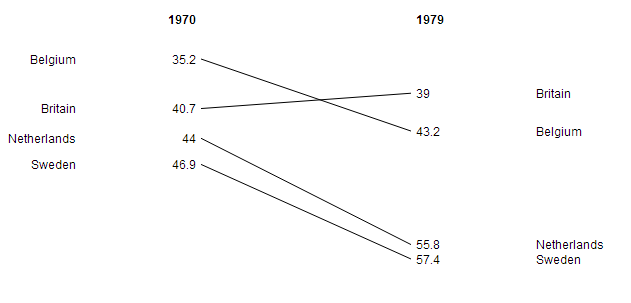
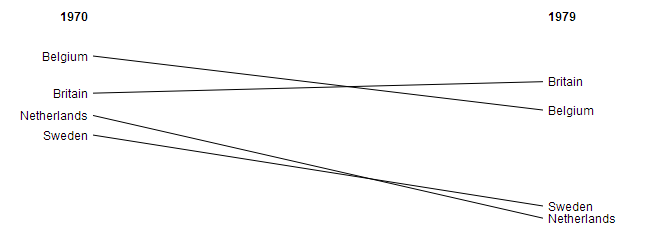
Updated with support for proper two-way data binding, en hidden labels

diff --git a/js/angular-slopegraph.js b/js/angular-slopegraph.js
@@ -3,6 +3,7 @@ angular.module('ngSlopeGraph', [])
 
         function drawSlopeGraph(container, data, leftLabel, rightLabel, width, height) {
 
+            container.html(""); // Clear current slopegraph
             var seenBoundingBoxes = [];
 
             var r = Raphael(container[0], width, height),
@@ -11,15 +12,14 @@ angular.module('ngSlopeGraph', [])
                 leftHeaderCss = { 'text-anchor': 'end', fill: "#000", 'font-size': "12px", 'font-weight': 'bold'},
                 rightHeaderCss = { 'text-anchor': 'start', fill: "#000", 'font-size': "12px", 'font-weight': 'bold'},
                 labelWidth = 120,
-                numberWidth = 120,
                 headerHeight = 50,
-                footerHeight = 50,
+                footerHeight = 100,
                 contentHeight = height - headerHeight - footerHeight,
                 max = getMaxValue(data),
                 min = getMinValue(data),
                 scale = (contentHeight / (max - min));
-            r.text(labelWidth + numberWidth, 10, leftLabel).attr(leftHeaderCss);
-            r.text(width - labelWidth - numberWidth, 10, rightLabel).attr(rightHeaderCss);
+            r.text(labelWidth, 10, leftLabel).attr(leftHeaderCss);
+            r.text(width - labelWidth, 10, rightLabel).attr(rightHeaderCss);
             for (var i = 0; i < data.length; i++) {
                 var leftKey = data[i] [0],
                     leftVal = data[i] [1],
@@ -29,13 +29,16 @@ angular.module('ngSlopeGraph', [])
                 var endY = headerHeight + scale * (rightVal - min);
                 while (collides({x: 0, y: startY, w: labelWidth, h: 12}, seenBoundingBoxes)) startY++;
                 while (collides({x: width - labelWidth, y: endY, w: labelWidth, h: 12}, seenBoundingBoxes)) endY++;
-                r.text(labelWidth, startY, leftKey).attr(leftLabelCss);
-                r.text(labelWidth + numberWidth, startY, leftVal).attr(leftLabelCss);
-                r.text(width - labelWidth, endY, rightKey).attr(rightLabelCss);
-                r.text(width - labelWidth - numberWidth, endY, rightVal).attr(rightLabelCss);
-                var line = ["M", labelWidth + numberWidth + 5, " ", startY, "L", width - labelWidth - numberWidth - 5, " ", endY].join("");
+                if (leftKey) {
+                    r.text(labelWidth, startY, leftKey).attr(leftLabelCss);
+                }
+                if (rightKey) {
+                    r.text(width - labelWidth, endY, rightKey).attr(rightLabelCss);
+                }
+                if (leftVal && rightVal) {
+                    var line = ["M", labelWidth + 5, " ", startY, "L", width - labelWidth - 5, " ", endY].join("");
+                }
                 var p = r.path(line);
-
             }
         };
 
@@ -51,10 +54,10 @@ angular.module('ngSlopeGraph', [])
         function getMinValue(data) {
             var result = Number.MAX_VALUE;
             for (var i = 0; i < data.length; i++) {
-                if (data[i][1] < result) {
+                if (data[i][1] && data[i][1] < result) {
                     result = data[i][1];
                 }
-                if (data[i][3] < result) {
+                if (data[i][3] && data[i][3] < result) {
                     result = data[i][3];
                 }
             }
@@ -65,10 +68,10 @@ angular.module('ngSlopeGraph', [])
         function getMaxValue(data) {
             var result = Number.MIN_VALUE;
             for (var i = 0; i < data.length; i++) {
-                if (data[i][1] > result) {
+                if (data[i][1] && data[i][1] > result) {
                     result = data[i][1];
                 }
-                if (data[i][3] > result) {
+                if (data[i][3] && data[i][3] > result) {
                     result = data[i][3];
                 }
             }
@@ -79,14 +82,20 @@ angular.module('ngSlopeGraph', [])
             restrict: 'E',
             replace: true,
             link: function compile(scope, element, attrs, controller) {
-                attrs.$observe('slopedata', function (data) {
-                    var dataSet = scope.$eval(attrs['slopedata']);
-                    var leftLabel = attrs['leftlabel'];
-                    var rightLabel = attrs['rightlabel'];
-                    var width = attrs['width'];
-                    var height = attrs['height'];
-                    drawSlopeGraph(element, dataSet, leftLabel, rightLabel, width, height);
-                });
+                var scopeVarWithData = attrs['slopedata'];
+                scope.$watch(scopeVarWithData, function () {
+                        var dataSet = scope.$eval(attrs['slopedata']);
+                        if (dataSet) {
+                            var leftLabel = attrs['leftlabel'];
+                            var rightLabel = attrs['rightlabel'];
+                            var width = attrs['width'];
+                            var height = attrs['height'];
+                            drawSlopeGraph(element, dataSet, leftLabel, rightLabel, width, height);
+                        }
+                    }
+                );
             }
-        };
-    });
+        }
+            ;
+    })
+;

diff --git a/README.md b/README.md
@@ -19,7 +19,13 @@ Create a slopegraph as follows
 ```
 <slopegraph slopedata="slopeData" leftlabel="1970" rightlabel="1979" width="500" height="900"></slopegraph>
 ```
-slopeData refers to a scope variable that contains the data. The data must be a 2-dimensional array, where each element is a list of 4 elements: The input label and value, and the output label and value. Higher values will be displayed lower on the graph.
+slopeData refers to a scope variable that contains the data. The data must be a 2-dimensional array, where each element is a list of 4 elements: 
+- The left label
+- The value behind the left label
+- The right label
+- The value behind the right label
+
+Higher values will be displayed lower on the graph. For example, the example rendering above is backed by this data:
 
 ```javascript
 angular.module('myApp', ['ngSlopeGraph']).
